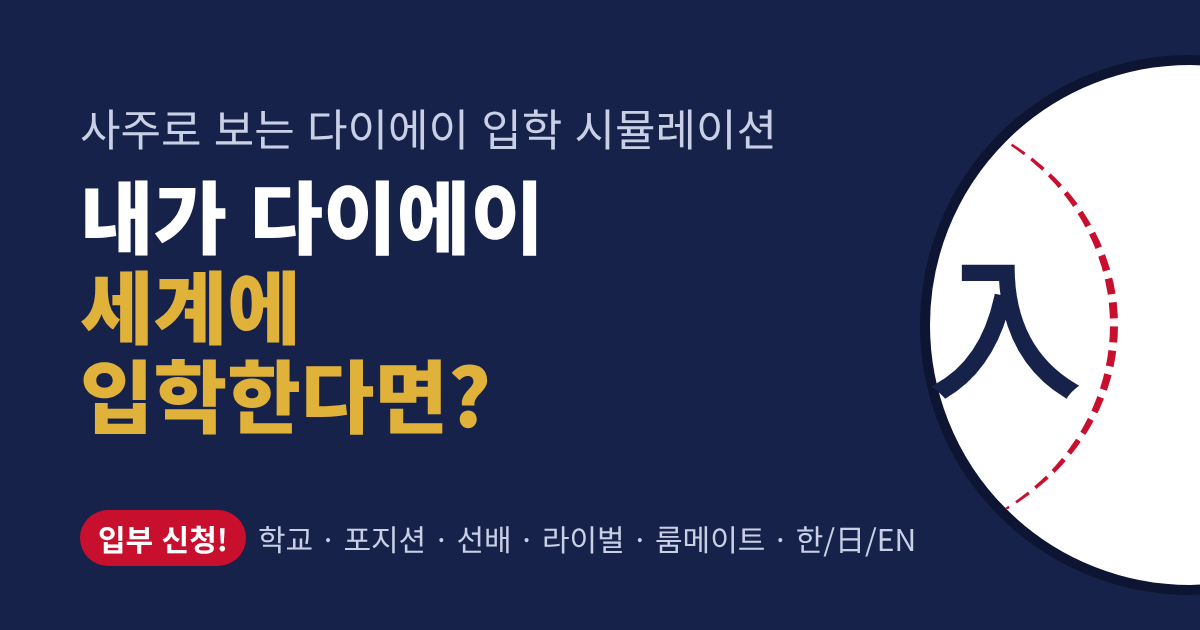
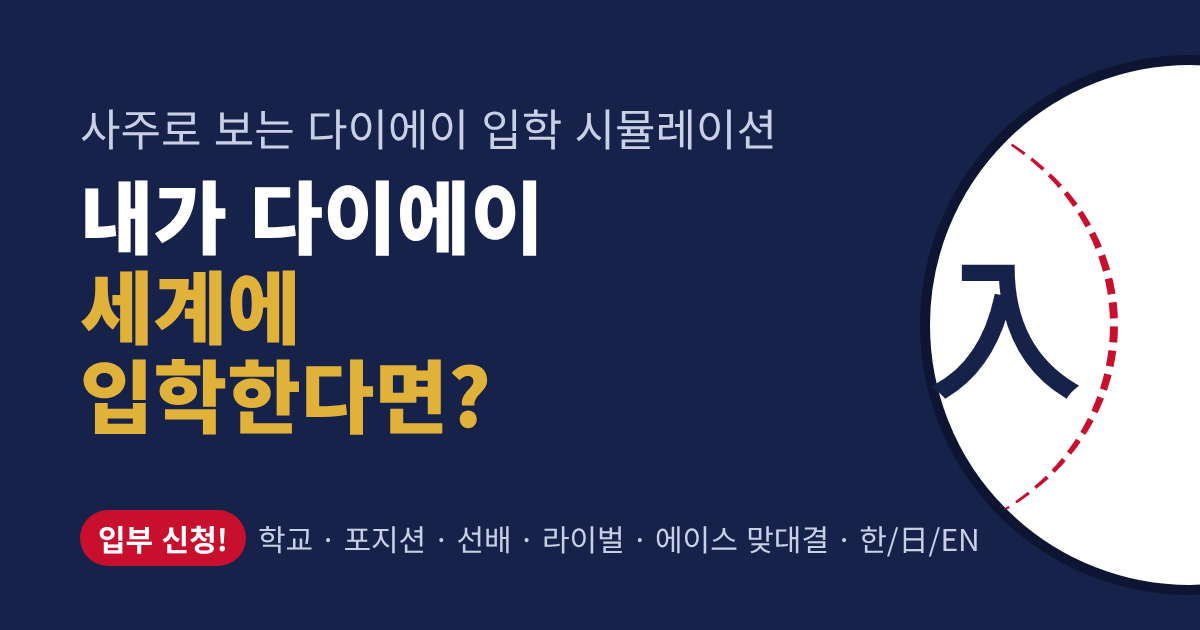
스카우트: 청심료 룸메이트 제거
Claude-Session: https://claude.ai/code/session_013KbxVxor8aHAB5WhQUasoP

Changed region(s): [[0.5242, 0.8143, 0.8325, 0.8746]]

diff --git a/js/scout-i18n.js b/js/scout-i18n.js
@@ -9,9 +9,6 @@ const SCOUT_KO = {
   aceDuelP:s=>`⚔ 투수전 상대 (${s} 에이스)`, aceDuelH:s=>`⚔ 타석에서 맞설 ${s} 에이스`,
   aceWhy:{ chung:n=>`일간이 정면으로 부딪히는 충이에요. ${n}${jo(n,"과","와")}의 승부는 언제나 불꽃이 튀어요.`, hap:n=>`일간이 합이라 서로를 너무 잘 알아요. ${n}${jo(n,"은","는")} 적인데 묘하게 통하는 상대예요.`, hit:n=>`${n}의 기운이 나를 누르는 관계예요. 넘어서야 할 높은 벽이에요.`, ctrl:n=>`내 기운이 ${n}${jo(n,"을","를")} 누르는 관계예요. 공략 포인트가 보이는 상대예요.`, other:n=>`${n}${jo(n,"과","와")}는 서로를 의식하며 실력을 끌어올리는 숙명의 상대예요.` },
   predL:"승부 예측", pred:{ chung:"한 번의 실수가 승부를 가르는 접전", hap:"끝까지 알 수 없는 명승부", hit:"상대 우세 · 이기면 한 단계 성장", ctrl:"내가 우세 · 방심만 하지 않으면", get:"상대 우세 · 배우면서 크는 승부", give:"내가 우세 · 하지만 한 방을 조심", same:"막상막하의 맞대결", other:"막상막하" },
-  hRoom:"🏠 청심료 룸메이트", roomNote:"세이도 기숙사 청심료에서 같은 방을 쓸 선배를 궁합으로 배정했어요.", roomT:["🛏 3학년 룸메이트","🛏 2학년 룸메이트"],
-  room:{ tetsu:n=>`장기 상대를 해 달라는 주장님과 같은 방. 실력은 꽝이지만 늘 진지해요.`, chris:n=>`조용히 데이터를 정리하는 선배와 같은 방. 물어보면 뭐든 차분히 알려 줘요.`, masuko:n=>`냉장고 속 푸딩은 절대 건드리면 안 되는 방. 그것만 지키면 세상 너그러운 선배예요.`, isashiki:n=>`소리 지르는 선배와 같은 방. 그런데 몰래 순정만화를 읽는다는 소문이…`, ryosuke:n=>`웃으며 독설을 날리는 선배와 같은 방. 긴장을 늦추면 바로 찔려요.`, miyauchi:n=>`밤마다 '후슈—' 콧김이 들리는 방. 묵직하고 든든한 선배예요.`,
-    miyuki:n=>`능글맞게 놀리는 선배와 같은 방. 의외로 맛있는 요리를 해 줄지도?`, kuramochi:n=>`게임 대결과 프로레슬링 기술이 기다리는 방. 사와무라가 겪은 바로 그 방이에요.`, kawakami:n=>`착하고 걱정 많은 선배와 같은 방. 시합 전날엔 같이 잠 못 들어요.`, shirasu:n=>`늘 정돈된 조용한 방. 말없이 챙겨 주는 상식인 선배예요.`, watanabe:n=>`상대 팀 영상이 계속 돌아가는 방. 같이 보다 보면 분석력이 쑥쑥 늘어요.` },
   more:"🔍 사주 풀이 상세보기",
   whyL:s=>`왜 ${s}?`,
   schoolReason:{ seido:p=>`관성·인성(나를 다잡고 키워 주는 기운)이 ${p}%예요. 좋은 지도자와 동료 속에서 노력으로 크는 세이도 스타일과 잘 맞아요.`,
@@ -66,9 +63,6 @@ const SCOUT_JA = {
   aceDuelP:s=>`⚔ 投げ合う相手（${s}のエース）`, aceDuelH:s=>`⚔ 打席で対決する${s}のエース`,
   aceWhy:{ chung:n=>`日干が正面からぶつかる冲。${n}との勝負はいつも火花が散ります。`, hap:n=>`日干が合で、お互いをよく知りすぎている。${n}は敵なのに妙に通じ合う相手です。`, hit:n=>`${n}の気があなたを抑える関係。越えるべき高い壁です。`, ctrl:n=>`あなたの気が${n}を抑える関係。攻略のポイントが見える相手です。`, other:n=>`${n}とは互いを意識して実力を高め合う宿命の相手です。` },
   predL:"勝負予想", pred:{ chung:"一つのミスが勝負を分ける接戦", hap:"最後までわからない名勝負", hit:"相手優勢・勝てば一段上へ", ctrl:"あなた優勢・油断さえしなければ", get:"相手優勢・学びながら伸びる勝負", give:"あなた優勢・ただし一発に注意", same:"互角の真っ向勝負", other:"互角" },
-  hRoom:"🏠 青心寮のルームメイト", roomNote:"青道の寮・青心寮で同じ部屋になる先輩を相性で割り当てました。", roomT:["🛏 3年生のルームメイト","🛏 2年生のルームメイト"],
-  room:{ tetsu:n=>`将棋の相手をせがむ主将と同じ部屋。腕前はからっきしでも、いつも真剣です。`, chris:n=>`静かにデータを整理する先輩と同じ部屋。聞けば何でも落ち着いて教えてくれます。`, masuko:n=>`冷蔵庫のプリンには絶対手を出してはいけない部屋。それさえ守れば心の広い先輩です。`, isashiki:n=>`よく吠える先輩と同じ部屋。でもこっそり少女マンガを読んでいるという噂が…`, ryosuke:n=>`笑顔で毒舌を飛ばす先輩と同じ部屋。気を抜くとすぐ刺されます。`, miyauchi:n=>`夜な夜な「フシュー」という鼻息が聞こえる部屋。どっしり頼れる先輩です。`,
-    miyuki:n=>`飄々とからかってくる先輩と同じ部屋。意外とおいしい料理を作ってくれるかも？`, kuramochi:n=>`ゲーム対決とプロレス技が待っている部屋。沢村が味わった、あの部屋です。`, kawakami:n=>`優しくて心配性の先輩と同じ部屋。試合前夜は一緒に眠れません。`, shirasu:n=>`いつも片付いた静かな部屋。黙って気にかけてくれる常識人の先輩です。`, watanabe:n=>`相手チームの映像がずっと流れている部屋。一緒に見ていると分析力がぐんぐん伸びます。` },
   more:"🔍 命式の相性を詳しく見る",
   whyL:s=>`なぜ${s}？`,
   schoolReason:{ seido:p=>`官星・印星（自分を引き締め育てる気）が${p}%。良い指導者と仲間の中で努力して伸びる青道スタイルに合っています。`,
@@ -123,9 +117,6 @@ const SCOUT_EN = {
   aceDuelP:s=>`⚔ Pitchers' duel (${s}'s ace)`, aceDuelH:s=>`⚔ ${s}'s ace you'll face at the plate`,
   aceWhy:{ chung:n=>`Your day stems clash head-on. Every battle with ${n} throws sparks.`, hap:n=>`Your day stems unite, so you know each other too well — ${n} is a foe you strangely click with.`, hit:n=>`${n}'s energy keeps yours in check — a high wall to climb.`, ctrl:n=>`Your energy keeps ${n}'s in check — you can see how to beat him.`, other:n=>`${n} is your destined rival; you raise each other's game.` },
   predL:"Prediction", pred:{ chung:"A close game decided by one mistake", hap:"A classic that's anyone's game to the end", hit:"Edge: them · win and you level up", ctrl:"Edge: you · as long as you stay sharp", get:"Edge: them · a game you learn from", give:"Edge: you · but watch for the big swing", same:"Dead even, head to head", other:"Dead even" },
-  hRoom:"🏠 Seishin Dorm roommates", roomNote:"Your roommates in Seido's Seishin Dorm, assigned by compatibility.", roomT:["🛏 Third-year roommate","🛏 Second-year roommate"],
-  room:{ tetsu:n=>`Rooming with the captain who begs you to play shogi. Terrible at it, but always serious.`, chris:n=>`Rooming with a senior quietly organizing data. Ask anything and he'll calmly explain.`, masuko:n=>`Never touch the pudding in the fridge. Do that and he's the kindest senior around.`, isashiki:n=>`Rooming with a senior who yells a lot. But rumor says he secretly reads shojo manga…`, ryosuke:n=>`Rooming with a senior who smiles while roasting you. Let your guard down and you get stabbed.`, miyauchi:n=>`A room where you hear "fshhh" snorts every night. A solid, dependable senior.`,
-    miyuki:n=>`Rooming with a senior who teases you slyly. He might cook you something tasty, though.`, kuramochi:n=>`Game battles and pro-wrestling holds await — the very room Sawamura survived.`, kawakami:n=>`Rooming with a kind, anxious senior. Neither of you sleeps the night before a game.`, shirasu:n=>`An always-tidy, quiet room. A sensible senior who looks out for you without a word.`, watanabe:n=>`Opponent footage plays nonstop. Watch along and your analysis skills shoot up.` },
   more:"🔍 See the full Saju reading",
   whyL:s=>`Why ${s}?`,
   schoolReason:{ seido:p=>`Authority + Resource (the energies that discipline and nurture you) make up ${p}%. You fit Seido's style of growing through effort among good coaches and teammates.`,

diff --git a/js/scout.js b/js/scout.js
@@ -117,10 +117,10 @@ function scout(p) {
   const aceRb = { chung:30, hap:20, hit:12, ctrl:12 };
   const ace = SCHOOLS.filter(k => k !== school).flatMap(k => ACES[k]).map(cs)
     .sort((x, y) => ((aceRb[y.rel] || 0) + Math.abs(y.score - 50) * 0.3) - ((aceRb[x.rel] || 0) + Math.abs(x.score - 50) * 0.3))[0];
-  // 청심료 룸메이트 (세이도 입학 시): 3학년·2학년 각 1명, 선배·라이벌·짝꿍과 겹치지 않게
+  /* 청심료 룸메이트 (사용 안 함) (세이도 입학 시): 3학년·2학년 각 1명, 선배·라이벌·짝꿍과 겹치지 않게
   const taken = [mentor.c.id, rival.c.id, partner.c.id];
   const pick = ids => { const l = ids.filter(id => !taken.includes(id)); return (l.length ? l : ids).map(cs).sort((x, y) => y.score - x.score)[0]; };
-  const room = school === "seido" ? [pick(ROOM3), pick(ROOM2)] : null;
+  */ const room = null;
   const weapon = { kind: pos === "P" ? "P" : "H", el: domEl, ref: byId(WEAPON_REF[pos === "P" ? "P" : "H"][domEl]) };
   const sp = { seido: r[3] + r[4], inashiro: r[0], yakushi: r[1] + r[2], ichidai: r[2] + r[1] };
   const why = s => S().schoolReason[s](Math.round(sp[s] * 100), s === "inashiro" ? a.support >= 0.55 : (domEl === 3 || domEl === 4));
@@ -139,7 +139,7 @@ let LAST = [1997, 8, 21, 9, 40, true, "next", true], LAST_R = null;
 function shareUrl(R) {
   const base = location.origin + "/scout";
   const f = [R.school, R.pos, R.num, { 신강:"s", 중화:"b", 신약:"w" }[R.lab], R.mentor.c.id, R.mentor.score, R.rival.c.id, R.rival.score, R.partner.c.id, R.partner.score, R.ace.c.id, R.ace.score]
-    .concat(R.room ? [R.room[0].c.id, R.room[1].c.id] : []);
+;
   return base + "?sc=" + f.join(".") + "#" + LANG;
 }
 function parseFriend() {
@@ -149,7 +149,7 @@ function parseFriend() {
     const ok = id => byId(id) ? id : null;
     if (!SCHOOLS.includes(a[0]) || !POS[a[1]]) return null;
     const f = { school:a[0], pos:a[1], num:+a[2], lab:{ s:"신강", b:"중화", w:"신약" }[a[3]] || "중화",
-      mentor:[ok(a[4]), +a[5]], rival:[ok(a[6]), +a[7]], partner:[ok(a[8]), +a[9]], ace:[ok(a[10]), +a[11]], room:[ok(a[12]), ok(a[13])].filter(Boolean) };
+      mentor:[ok(a[4]), +a[5]], rival:[ok(a[6]), +a[7]], partner:[ok(a[8]), +a[9]], ace:[ok(a[10]), +a[11]] };
     if (![f.mentor, f.rival, f.partner, f.ace].every(x => x[0])) return null;
     return f;
   } catch (e) { return null; }
@@ -162,7 +162,7 @@ function renderFriend() {
   box.hidden = false;
   box.innerHTML = `<span class="friend-label">${esc(s.friendT)}</span>
     <div class="sc-fhead"><b class="sc-school ${f.school}">${esc(P().team[f.school])}</b> <span class="sc-fnum">#${f.num}</span> <span class="sc-fpos">${esc(s.pos[f.pos])}</span></div>
-    <div class="friend-others">${chip(s.mentorT, f.mentor)}${chip(s.rivalT, f.rival)}${chip(s.partnerT[f.pos], f.partner)}${chip(s.aceChip, f.ace)}${f.room.map(id => chip("🛏", [id, 0])).join("")}</div>
+    <div class="friend-others">${chip(s.mentorT, f.mentor)}${chip(s.rivalT, f.rival)}${chip(s.partnerT[f.pos], f.partner)}${chip(s.aceChip, f.ace)}</div>
     <button type="button" class="go friend-go" id="friendGo">${esc(s.tryMine)}</button>`;
   $("friendGo").addEventListener("click", () => { $("bd").focus(); $("f").scrollIntoView({ behavior: "smooth", block: "center" }); track("friend_try_click", { lang: LANG, page: "scout" }); });
 }
@@ -204,10 +204,6 @@ function render(y, m, d, hh, mm, hasTime, zi, isSample) {
   const ac = C(R.ace.c), aceWho = R.pos === "P" ? s.aceDuelP : s.aceDuelH;
   $("scAce").innerHTML = `<h2>${esc(s.hAce)}</h2>` + personCard(R, aceWho(pk.team[R.ace.c.team]), R.ace, (s.aceWhy[R.ace.rel] || s.aceWhy.other)(ac.name))
     + `<p class="sc-pred">${esc(s.predL)} <b>${esc(s.pred[R.ace.rel] || s.pred.other)}</b></p>`;
-  // 청심료 룸메이트
-  $("scRoom").hidden = !R.room;
-  if (R.room) $("scRoom").innerHTML = `<h2>${esc(s.hRoom)}</h2><p class="split">${esc(s.roomNote)}</p><div class="sc-people">`
-    + R.room.map(rc => personCard(R, s.roomT[rc === R.room[0] ? 0 : 1], rc, s.room[rc.c.id](C(rc.c).name))).join("") + `</div>`;
   LAST_R = R;
   $("scCoach").innerHTML = `<div class="sc-ct">${esc(s.coachT)}</div><blockquote>“${esc(s.coach[R.domG])} ${esc(R.school === "seido" ? s.coachTail[R.lab] : s.coachAway(schoolName))}”</blockquote>`;
   if (!isSample && !render.silent) track("scout_result", { school: R.school, pos: R.pos, lang: LANG });

diff --git a/scout.html b/scout.html
@@ -76,8 +76,6 @@
     <div class="sc-coach" id="scCoach"></div>
   </section>
 
-  <section class="section" id="scRoom"></section>
-
   <section class="section" id="scAce"></section>
 
   <section class="section">
